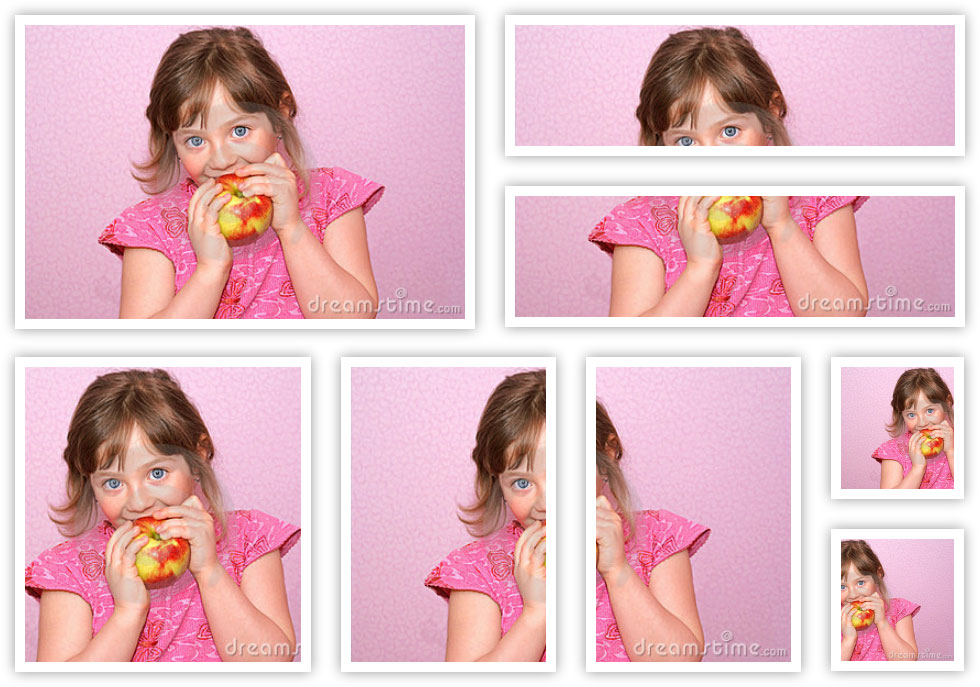
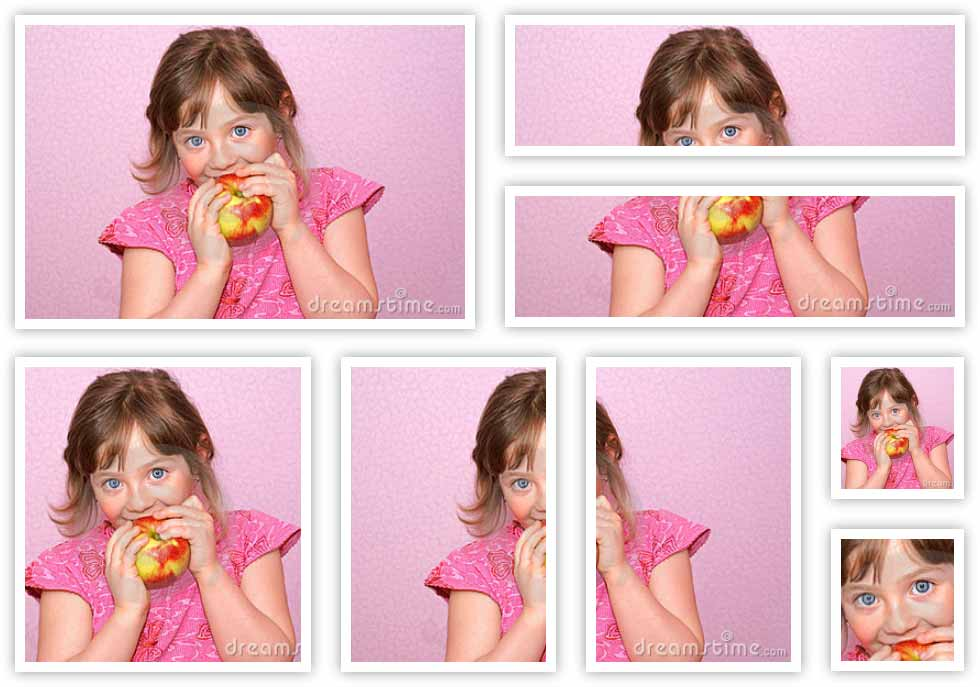
Update version to 2.1.0

diff --git a/demo/jqthumb.min.js b/demo/jqthumb.min.js
@@ -1,13 +1,13 @@
 /*!
-    jQThumb V2.0.1
+    jQThumb V2.1.0
     Copyright (c) 2013-2014
     Dual licensed under the MIT and GPL licenses.
 
     Author       : Pak Cheong
-    Version      : 2.0.1
+    Version      : 2.1.0
     Repo         : https://github.com/pakcheong/jqthumb
     Demo         : http://pakcheong.github.io/jqthumb/
-    Last Updated : Friday, September 19th, 2014, 4:07:25 PM
+    Last Updated : Sunday, September 21st, 2014, 3:19:41 PM
     Requirements : jQuery >=v1.3.0 or Zepto (with zepto-data plugin) >=v1.0.0
 */
-!function(a,b,c){function d(a){b.console||(b.console=function(){var a=function(){};return a.prototype.error=function(){},a.prototype.log=function(){},a.prototype.warn=function(){},new a}),"undefined"!=typeof a&&"object"==typeof a&&"undefined"!=typeof a.type&&a.type&&"undefined"!=typeof a.msg&&a.msg&&(a.type=a.type.toLowerCase(),"error"==a.type?console.error(a.msg):"log"==a.type?console.log(a.msg):"warn"==a.type?console.warn(a.msg):console.error('"'+a.type+'" is not supported as console type.'))}function e(b,c){this.element=b,this.settings=a.extend({},h,c),this.settings.width=this.settings.width.toString().replace(/px/g,""),this.settings.height=this.settings.height.toString().replace(/px/g,""),this.settings.position.top=this.settings.position.top.toString().replace(/px/g,""),this.settings.position.left=this.settings.position.left.toString().replace(/px/g,""),this._defaults=h,this._name=f,"string"==typeof c?"kill"==c.toLowerCase()&&this.kill(this.element):this.init()}var f="jqthumb",g={outputElems:[],inputElems:[]},h={classname:"jqthumb",width:100,height:100,position:{top:"50%",left:"50%"},source:"src",responsive:20,showoncomplete:!0,before:function(){},after:function(){},done:function(){}};e.prototype={init:function(){this.support_css3_attr("backgroundSize")===!1?this.nonCss3Supported_method(this.element,this.settings):this.css3Supported_method(this.element,this.settings)},kill:function(c){if(a(c).data(f)){if(a(c).prev().data(f)!==f)return d({type:"error",msg:"We could not find the element created by jqthumb. It is probably due to one or more element has been added right before the image element after the plugin initialization, or it was removed."}),!1;var e=[];a.each(g.outputElems,function(b,d){a(d)[0]==a(c).prev()[0]||e.push(g.outputElems[b])}),g.outputElems=e,e=[],a.each(g.inputElems,function(b,d){a(d)[0]==a(c)[0]||e.push(g.inputElems[b])}),g.inputElems=e,a(c).prev().data(f+"resize")&&a(b).unbind("resize",a(c).prev().data(f+"resize")),a(c).prev().remove(),a(c).removeAttr("style"),"undefined"!=typeof a(c).data(f+"-original-styles")&&a(c).attr("style",a(c).data(f+"-original-styles")),"undefined"!=typeof a(c).data(f+"-original-styles")&&a(c).removeData(f+"-original-styles"),"undefined"!=typeof a(c).data(f)&&a(c).removeData(f)}},nonCss3Supported_method:function(c,d){d.before.call(c,c);var e=this,g=a(c);g.data(f+"-original-styles",g.attr("style")),g.hide();var h=a("<img/>");h.bind("load",function(){var i={obj:h,size:{width:this.width,height:this.height}},j=e.percentOrPixel(d.width),k=e.percentOrPixel(d.height),l=a("<div />"),m=0,n=function(){setTimeout(function(){o()},d.responsive)},o=function(){i.size.width>i.size.height?(a(i.obj).css({width:"auto","max-height":99999999,"min-height":0,"max-width":99999999,"min-width":0,height:a(i.obj).parent().height()+"px"}),m=a(i.obj).height()/a(i.obj).width(),a(i.obj).width()<a(i.obj).parent().width()&&a(i.obj).css({width:a(i.obj).parent().width(),height:parseFloat(a(i.obj).parent().width()*m)})):(a(i.obj).css({width:a(i.obj).parent().width()+"px","max-height":99999999,"min-height":0,"max-width":99999999,"min-width":0,height:"auto"}),m=a(i.obj).width()/a(i.obj).height(),a(i.obj).height()<a(i.obj).parent().height()&&a(i.obj).css({width:parseFloat(a(i.obj).parent().height()*m),height:a(i.obj).parent().height()})),posTop="%"==e.percentOrPixel(d.position.top)?d.position.top:d.position.top+"px",posLeft="%"==e.percentOrPixel(d.position.left)?d.position.left:d.position.left+"px",a(i.obj).css({position:"absolute",top:posTop,"margin-top":function(){return"%"==e.percentOrPixel(d.position.top)?"-"+parseFloat(a(i.obj).height()/100*d.position.top.slice(0,-1))+"px":void 0}(),left:posLeft,"margin-left":function(){return"%"==e.percentOrPixel(d.position.left)?"-"+parseFloat(a(i.obj).width()/100*d.position.left.slice(0,-1))+"px":void 0}()})};a(l).insertBefore(g).append(a(i.obj)).css({position:"relative",overflow:"hidden",width:"%"==j?d.width:d.width+"px",height:"%"==k?d.height:d.height+"px"}).data(f,f),o(),d.responsive>0&&(a(l).data(f+"resize",n),a(b).bind("resize",a(l).data(f+"resize"))),a(l).hide().addClass(d.classname),d.showoncomplete===!0&&a(l).show(),d.after.call(c,a(l)),e.updateGlobal(c,a(l),d)}).attr("src",g.attr(d.source))},css3Supported_method:function(b,c){c.before.call(b,b);var d=this,e=a(b),g=a("<img />").attr("src",e.attr(c.source));e.data(f+"-original-styles",e.attr("style")),e.hide(),a.each(g,function(g,h){var i=a(h);i.one("load",function(){var g=d.percentOrPixel(c.width),h=d.percentOrPixel(c.height),i=null,j=null;i=a("<div/>").css({width:"%"==g?c.width:c.width+"px",height:"%"==h?c.height:c.height+"px",display:"none"}).addClass(c.classname).data(f,f),j=a("<div/>").css({width:"100%",height:"100%","background-image":'url("'+e.attr(c.source)+'")',"background-repeat":"no-repeat","background-position":function(){var a="%"==d.percentOrPixel(c.position.top)?c.position.top:c.position.top+"px",b="%"==d.percentOrPixel(c.position.left)?c.position.left:c.position.left+"px";return b+" "+a}(),"background-size":"cover"}).appendTo(a(i)),a(i).insertBefore(a(b)),c.showoncomplete===!0&&a(i).show(),d.checkSrcAttrName(b,c),c.after.call(b,a(i)),d.updateGlobal(b,a(i),c)})})},updateGlobal:function(b,c,d){b.global.outputElems.push(a(c)[0]),b.global.elemCounter++,g.outputElems.push(a(c)[0]),b.global.elemCounter==b.global.inputElems.length&&d.done.call(b,b.global.outputElems)},checkSrcAttrName:function(b,c){"src"==c.source||"undefined"!=typeof a(b).attr("src")&&""!==a(b).attr("src")||a(b).attr("src",a(b).attr(c.source))},percentOrPixel:function(a){return a=a.toString(),a.match("px$")||a.match("PX$")||a.match("pX$")||a.match("Px$")?"px":a.match("%$")?"%":void 0},support_css3_attr:function(){{var a=c.createElement("div"),b="Khtml Ms O Moz Webkit".split(" ");b.length}return function(c){if(c in a.style)return!0;for(c=c.replace(/^[a-z]/,function(a){return a.toUpperCase()}),i=0;i<b.length;i++)if(b[i]+c in a.style)return!0;return!1}}()},a.fn[f]=function(b){var c={elemCounter:0,outputElems:[],inputElems:function(b){for(var c=a(b),d=c.length,e=[],f=0;d>f;f++)e.push(c.get(f));return e}(a(this))};return obj={},obj[f]=function(b){return"undefined"==typeof b?void d({type:"error",msg:'Please specify an action like $.jqthumb("killall")'}):(b=b.toLowerCase(),void("killall"==b&&a.each(g.inputElems,function(){new e(this,"kill")})))},a.extend(a,obj),this.each(function(){var d=a(this);this.global=c,g.inputElems.push(d),"string"==typeof b?new e(this,b):d.data(f)?(new e(this,"kill"),d.data(f,new e(this,b))):d.data(f,new e(this,b))})}}(window.jQuery||window.Zepto,window,document);
+!function(a,b,c){function d(a){b.console||(b.console=function(){var a=function(){};return a.prototype.error=function(){},a.prototype.log=function(){},a.prototype.warn=function(){},new a}),"undefined"!=typeof a&&"object"==typeof a&&"undefined"!=typeof a.type&&a.type&&"undefined"!=typeof a.msg&&a.msg&&(a.type=a.type.toLowerCase(),"error"==a.type?console.error(a.msg):"log"==a.type?console.log(a.msg):"warn"==a.type?console.warn(a.msg):console.error('"'+a.type+'" is not supported as console type.'))}function e(b,c){this.element=b,this.settings=a.extend({},h,c),this.settings.width=this.settings.width.toString().replace(/px/g,""),this.settings.height=this.settings.height.toString().replace(/px/g,""),this.settings.position.y=this.settings.position.y.toString().replace(/px/g,""),this.settings.position.x=this.settings.position.x.toString().replace(/px/g,""),this._defaults=h,this._name=f,"string"==typeof c?"kill"==c.toLowerCase()&&this.kill(this.element):this.init()}var f="jqthumb",g={outputElems:[],inputElems:[]},h={classname:"jqthumb",width:100,height:100,position:{y:"50%",x:"50%"},source:"src",responsive:20,zoom:1,showoncomplete:!0,method:"auto",before:function(){},after:function(){},done:function(){}};e.prototype={init:function(){"auto"==this.settings.method.toLowerCase()?this.support_css3_attr("backgroundSize")===!1?this.nonCss3Supported_method(this.element,this.settings):this.css3Supported_method(this.element,this.settings):"css3"==this.settings.method.toLowerCase()?this.css3Supported_method(this.element,this.settings):"native"==this.settings.method.toLowerCase()?this.nonCss3Supported_method(this.element,this.settings):d({type:"error",msg:'Wrong method defined. Only "auto", "css3" and "native" are allowed.'})},kill:function(c){if(a(c).data(f)){if(a(c).prev().data(f)!==f)return d({type:"error",msg:"We could not find the element created by jqthumb. It is probably due to one or more element has been added right before the image element after the plugin initialization, or it was removed."}),!1;var e=[];a.each(g.outputElems,function(b,d){a(d)[0]==a(c).prev()[0]||e.push(g.outputElems[b])}),g.outputElems=e,e=[],a.each(g.inputElems,function(b,d){a(d)[0]==a(c)[0]||e.push(g.inputElems[b])}),g.inputElems=e,a(c).prev().data(f+"resize")&&(a(b).unbind("resize",a(c).prev().data(f+"resize")),a(c).prev().removeData(f+"resize")),a(c).prev().remove(),a(c).removeAttr("style"),"undefined"!=typeof a(c).data(f+"-original-styles")&&a(c).attr("style",a(c).data(f+"-original-styles")),"undefined"!=typeof a(c).data(f+"-original-styles")&&a(c).removeData(f+"-original-styles"),"undefined"!=typeof a(c).data(f)&&a(c).removeData(f)}},nonCss3Supported_method:function(c,d){d.before.call(c,c);var e=this,g=a(c);g.data(f+"-original-styles",g.attr("style")),g.hide();var h=a("<img/>");h.bind("load",function(){var i={obj:h,size:{width:this.width,height:this.height}},j=e.percentOrPixel(d.width),k=e.percentOrPixel(d.height),l=a("<div />"),m=0,n=function(){setTimeout(function(){o()},d.responsive)},o=function(){i.size.width>i.size.height?(a(i.obj).css({width:"auto","max-height":99999999,"min-height":0,"max-width":99999999,"min-width":0,height:a(i.obj).parent().height()+"px"}),m=a(i.obj).height()/a(i.obj).width(),a(i.obj).css(a(i.obj).width()<a(i.obj).parent().width()?{width:a(i.obj).parent().width()*d.zoom,height:parseFloat(a(i.obj).parent().width()*m)*d.zoom}:{width:a(i.obj).width()*d.zoom,height:parseFloat(a(i.obj).width()*m)*d.zoom})):(a(i.obj).css({width:a(i.obj).parent().width()+"px","max-height":99999999,"min-height":0,"max-width":99999999,"min-width":0,height:"auto"}),m=a(i.obj).width()/a(i.obj).height(),a(i.obj).height()<a(i.obj).parent().height()&&a(i.obj).css({width:parseFloat(a(i.obj).parent().height()*m)*d.zoom,height:a(i.obj).parent().height()*d.zoom})),posTop="%"==e.percentOrPixel(d.position.y)?d.position.y:d.position.y+"px",posLeft="%"==e.percentOrPixel(d.position.x)?d.position.x:d.position.x+"px",a(i.obj).css({position:"absolute",top:function(){return"%"==e.percentOrPixel(d.position.y)?"-"+parseFloat((a(i.obj).height()-a(l).height())/100*d.position.y.replace("%",""))+"px":"px"==e.percentOrPixel(d.position.y)||isNaN(d.position.y)===!1?d.position.y.replace("px","")+"px":void 0}(),left:function(){return"%"==e.percentOrPixel(d.position.x)?"-"+parseFloat((a(i.obj).width()-a(l).width())/100*d.position.x.replace("%",""))+"px":"px"==e.percentOrPixel(d.position.x)||isNaN(d.position.x)===!1?d.position.x.replace("px","")+"px":void 0}()})};a(l).insertBefore(g).append(a(i.obj)).css({position:"relative",overflow:"hidden",width:"%"==j?d.width:d.width+"px",height:"%"==k?d.height:d.height+"px"}).data(f,f),o(),d.responsive>0&&(a(l).data(f+"resize",n),a(b).bind("resize",a(l).data(f+"resize"))),a(l).hide().addClass(d.classname),d.showoncomplete===!0&&a(l).show(),d.after.call(c,a(l)),e.updateGlobal(c,a(l),d)}).attr("src",g.attr(d.source))},css3Supported_method:function(b,c){c.before.call(b,b);var d=this,e=a(b),g=a("<img />").attr("src",e.attr(c.source));e.data(f+"-original-styles",e.attr("style")),e.hide(),a.each(g,function(g,h){var i=a(h);i.one("load",function(){var g=d.percentOrPixel(c.width),h=d.percentOrPixel(c.height),i=null,j=null;i=a("<div/>").css({width:"%"==g?c.width:c.width+"px",height:"%"==h?c.height:c.height+"px",display:"none",position:"relative",overflow:"hidden"}).addClass(c.classname).data(f,f),j=a("<div/>").css({width:"100%",height:"100%","background-image":'url("'+e.attr(c.source)+'")',"background-repeat":"no-repeat","background-position":function(){var a="%"==d.percentOrPixel(c.position.y)?c.position.y:c.position.y+"px",b="%"==d.percentOrPixel(c.position.x)?c.position.x:c.position.x+"px";return b+" "+a}(),"background-size":"cover"}).appendTo(a(i)),a(i).insertBefore(a(b)),1!=c.zoom&&(a(i).show(),a(j).css({width:parseFloat(100*c.zoom)+"%",height:parseFloat(100*c.zoom)+"%",position:"absolute"}).css({top:function(){var b=a(i).height(),e=a(j).height();return"%"==d.percentOrPixel(c.position.y)?"-"+parseFloat((e-b)/b*100/(100/c.position.y.replace("%","")))+"%":void 0}(),left:function(){var b=a(i).width(),e=a(j).width();return"%"==d.percentOrPixel(c.position.x)?"-"+parseFloat((e-b)/b*100/(100/c.position.x.replace("%","")))+"%":void 0}()}),a(i).hide()),c.showoncomplete===!0&&a(i).show(),d.checkSrcAttrName(b,c),c.after.call(b,a(i)),d.updateGlobal(b,a(i),c)})})},updateGlobal:function(b,c,d){b.global.outputElems.push(a(c)[0]),b.global.elemCounter++,g.outputElems.push(a(c)[0]),b.global.elemCounter==b.global.inputElems.length&&d.done.call(b,b.global.outputElems)},checkSrcAttrName:function(b,c){"src"==c.source||"undefined"!=typeof a(b).attr("src")&&""!==a(b).attr("src")||a(b).attr("src",a(b).attr(c.source))},percentOrPixel:function(a){return a=a.toString(),a.match("px$")||a.match("PX$")||a.match("pX$")||a.match("Px$")?"px":a.match("%$")?"%":void 0},support_css3_attr:function(){{var a=c.createElement("div"),b="Khtml Ms O Moz Webkit".split(" ");b.length}return function(c){if(c in a.style)return!0;for(c=c.replace(/^[a-z]/,function(a){return a.toUpperCase()}),i=0;i<b.length;i++)if(b[i]+c in a.style)return!0;return!1}}()},a.fn[f]=function(b){var c={elemCounter:0,outputElems:[],inputElems:function(b){for(var c=a(b),d=c.length,e=[],f=0;d>f;f++)e.push(c.get(f));return e}(a(this))};return obj={},obj[f]=function(b){return"undefined"==typeof b?void d({type:"error",msg:'Please specify an action like $.jqthumb("killall")'}):(b=b.toLowerCase(),void("killall"==b&&a.each(g.inputElems,function(){new e(this,"kill")})))},a.extend(a,obj),this.each(function(){var d=a(this);this.global=c,g.inputElems.push(d),"string"==typeof b?new e(this,b):d.data(f)?(new e(this,"kill"),d.data(f,new e(this,b))):d.data(f,new e(this,b))})}}(window.jQuery||window.Zepto,window,document);

diff --git a/demo/jqthumb.js b/demo/jqthumb.js
@@ -1,13 +1,13 @@
 /*!
-    jQThumb V2.0.1
+    jQThumb V2.1.0
     Copyright (c) 2013-2014
     Dual licensed under the MIT and GPL licenses.
 
     Author       : Pak Cheong
-    Version      : 2.0.1
+    Version      : 2.1.0
     Repo         : https://github.com/pakcheong/jqthumb
     Demo         : http://pakcheong.github.io/jqthumb/
-    Last Updated : Friday, September 19th, 2014, 4:07:25 PM
+    Last Updated : Sunday, September 21st, 2014, 3:19:41 PM
     Requirements : jQuery >=v1.3.0 or Zepto (with zepto-data plugin) >=v1.0.0
 */
 ;(function ( $, window, document, undefined ) {
@@ -44,10 +44,12 @@
             classname      : 'jqthumb',
             width          : 100,
             height         : 100,
-            position       : { top: '50%', left: '50%' },
+            position       : { y: '50%', x: '50%' },
             source         : 'src',
             responsive     : 20,
+            zoom           : 1,
             showoncomplete : true,
+            method         : 'auto', // auto, css3, native
             before         : function(){},
             after          : function(){},
             done           : function(){}
@@ -58,8 +60,8 @@
         this.settings               = $.extend( {}, defaults, options );
         this.settings.width         = this.settings.width.toString().replace(/px/g, '');
         this.settings.height        = this.settings.height.toString().replace(/px/g, '');
-        this.settings.position.top  = this.settings.position.top.toString().replace(/px/g, '');
-        this.settings.position.left = this.settings.position.left.toString().replace(/px/g, '');
+        this.settings.position.y    = this.settings.position.y.toString().replace(/px/g, '');
+        this.settings.position.x    = this.settings.position.x.toString().replace(/px/g, '');
         this._defaults              = defaults;
         this._name                  = pluginName;
         if(typeof options == 'string'){
@@ -73,10 +75,18 @@
 
     Plugin.prototype = {
         init: function () {
-            if(this.support_css3_attr('backgroundSize') === false){ // old browsers need to do calculation to perform same output like "background-size: cover"
-                this.nonCss3Supported_method(this.element, this.settings);
-            }else{ // modern browsers that support CSS3 would be easier
+            if(this.settings.method.toLowerCase() == 'auto'){
+                if(this.support_css3_attr('backgroundSize') === false){ // old browsers need to do calculation to perform same output like "background-size: cover"
+                    this.nonCss3Supported_method(this.element, this.settings);
+                }else{ // modern browsers that support CSS3 would be easier
+                    this.css3Supported_method(this.element, this.settings);
+                }
+            }else if(this.settings.method.toLowerCase() == 'css3'){
                 this.css3Supported_method(this.element, this.settings);
+            }else if(this.settings.method.toLowerCase() == 'native'){
+                this.nonCss3Supported_method(this.element, this.settings);
+            }else{
+                log({type: 'error', msg: 'Wrong method defined. Only "auto", "css3" and "native" are allowed.'});
             }
         },
 
@@ -113,6 +123,7 @@
                 /* START: remove attached custom event */
                 if($(_this).prev().data(pluginName + 'resize')){
                     $(window).unbind('resize', $(_this).prev().data(pluginName + 'resize'));
+                    $(_this).prev().removeData(pluginName + 'resize');
                 }
                 /* END: remove attached custom event */
 
@@ -179,8 +190,13 @@
 
                             if( $(newImg.obj).width() < $(newImg.obj).parent().width() ){
                                 $(newImg.obj).css({
-                                    'width': $(newImg.obj).parent().width(),
-                                    'height': parseFloat($(newImg.obj).parent().width() * ratio)
+                                    'width': $(newImg.obj).parent().width() * options.zoom,
+                                    'height': parseFloat($(newImg.obj).parent().width() * ratio) * options.zoom
+                                });
+                            }else{
+                                $(newImg.obj).css({
+                                    'width': $(newImg.obj).width() * options.zoom,
+                                    'height': parseFloat($(newImg.obj).width() * ratio) * options.zoom
                                 });
                             }
 
@@ -199,29 +215,31 @@
 
                             if( $(newImg.obj).height() < $(newImg.obj).parent().height() ){
                                 $(newImg.obj).css({
-                                    'width': parseFloat($(newImg.obj).parent().height() * ratio),
-                                    'height': $(newImg.obj).parent().height()
+                                    'width': parseFloat($(newImg.obj).parent().height() * ratio) * options.zoom,
+                                    'height': $(newImg.obj).parent().height() * options.zoom
                                 });
                             }
                         }
 
-                        posTop = (that.percentOrPixel(options.position.top) == '%') ? options.position.top : options.position.top + 'px';
-                        posLeft = (that.percentOrPixel(options.position.left) == '%') ? options.position.left : options.position.left + 'px';
+                        posTop = (that.percentOrPixel(options.position.y) == '%') ? options.position.y : options.position.y + 'px';
+                        posLeft = (that.percentOrPixel(options.position.x) == '%') ? options.position.x : options.position.x + 'px';
 
                         $(newImg.obj).css({
                             'position'    : 'absolute',
-                            'top'         : posTop,
-                            'margin-top'  : (function(){
-                                                if(that.percentOrPixel(options.position.top) == '%'){
-                                                    return '-' + parseFloat(($(newImg.obj).height() / 100) * options.position.top.slice(0,-1)) + 'px';
-                                                }
-                                            })(),
-                            'left'        : posLeft,
-                            'margin-left' : (function(){
-                                                if(that.percentOrPixel(options.position.left) == '%'){
-                                                    return '-' + parseFloat(($(newImg.obj).width() / 100) * options.position.left.slice(0,-1)) + 'px';
-                                                }
-                                            })()
+                            'top'         : (function(){
+                                if(that.percentOrPixel(options.position.y) == '%'){
+                                    return '-' + parseFloat(($(newImg.obj).height() - $(imgContainer).height()) / 100 * options.position.y.replace('%', '')) + 'px';
+                                }else if(that.percentOrPixel(options.position.y) == 'px' || isNaN(options.position.y) === false){
+                                    return options.position.y.replace('px', '') + 'px';
+                                }
+                            })(),
+                            'left'        : (function(){
+                                if(that.percentOrPixel(options.position.x) == '%'){
+                                    return '-' + parseFloat(($(newImg.obj).width() - $(imgContainer).width()) / 100 * options.position.x.replace('%', '')) + 'px';
+                                }else if(that.percentOrPixel(options.position.x) == 'px' || isNaN(options.position.x) === false){
+                                    return options.position.x.replace('px', '') + 'px';
+                                }
+                            })()
                         });
                     };
 
@@ -279,9 +297,11 @@
 
                     featuredBgImgContainer = $('<div/>')
                                                 .css({
-                                                    'width'   : (pw == '%') ? options.width : options.width + 'px',
-                                                    'height'  : (ph == '%') ? options.height : options.height + 'px',
-                                                    'display' : 'none'
+                                                    'width'    : (pw == '%') ? options.width : options.width + 'px',
+                                                    'height'   : (ph == '%') ? options.height : options.height + 'px',
+                                                    'display'  : 'none',
+                                                    'position' : 'relative',
+                                                    'overflow' : 'hidden'
                                                 })
                                                 .addClass(options.classname)
                                                 .data(pluginName, pluginName); // it would be easy to kill later
@@ -293,8 +313,8 @@
                         // '-ms-filter'         : '"progid:DXImageTransform.Microsoft.AlphaImageLoader(src="' + $oriImage.attr(options.source) + '",sizingMethod="scale")', // this does not work in Zepto
                         'background-repeat'  : 'no-repeat',
                         'background-position': (function(){
-                            var posTop = (that.percentOrPixel(options.position.top) == '%') ? options.position.top : options.position.top + 'px',
-                                posLeft = (that.percentOrPixel(options.position.left) == '%') ? options.position.left : options.position.left + 'px';
+                            var posTop = (that.percentOrPixel(options.position.y) == '%') ? options.position.y : options.position.y + 'px',
+                                posLeft = (that.percentOrPixel(options.position.x) == '%') ? options.position.x : options.position.x + 'px';
                             return posLeft + ' ' + posTop;
                         })(),
                         'background-size'    : 'cover'
@@ -302,6 +322,35 @@
                     .appendTo($(featuredBgImgContainer));
 
                     $(featuredBgImgContainer).insertBefore($(_this));
+
+                    if(options.zoom != 1){
+                        $(featuredBgImgContainer).show(); // must show to get resolution
+                        $(featuredBgImg)
+                            .css({
+                                'width'    : parseFloat(100 * options.zoom) + '%',
+                                'height'   : parseFloat(100 * options.zoom) + '%',
+                                'position' : 'absolute'
+                            })
+                            .css({
+                                'top'      : (function(){
+                                    // (cH - pH) / pH * 100 / percentage
+                                    var cH = $(featuredBgImgContainer).height(),
+                                        pH = $(featuredBgImg).height();
+                                    if(that.percentOrPixel(options.position.y) == '%'){
+                                        return '-' + parseFloat((pH - cH) / cH * 100 / (100 / options.position.y.replace('%', '')) ) + '%';
+                                    }
+                                })(),
+                                'left'     : (function(){
+                                    // (cW - pW) / pH * 100 / percentage
+                                    var cW = $(featuredBgImgContainer).width(),
+                                        pW = $(featuredBgImg).width();
+                                    if(that.percentOrPixel(options.position.x) == '%'){
+                                        return '-' + parseFloat((pW - cW) / cW * 100 / (100 / options.position.x.replace('%', '')) ) + '%';
+                                    }
+                                })()
+                            });
+                        $(featuredBgImgContainer).hide();
+                    }
 
                     if(options.showoncomplete === true){
                         $(featuredBgImgContainer).show();

diff --git a/index.html b/index.html
@@ -59,7 +59,7 @@
 	<body>
 	<div class="wrapper">
 		<header>
-			<h1>jQThumb v2.0.1</h1>
+			<h1>jQThumb v2.1.0</h1>
 			<p>
 				Create thumbnails from images proportionally. It even works on IE6 from jQuery >=v1.3 or Zepto (with zepto-data plugin) >=v1.1.3.
 			</p>
@@ -77,23 +77,28 @@
 			<a name="welcome-to-github-pages" class="anchor" href="#welcome-to-github-pages"><span class="octicon octicon-link"></span></a>Welcome to jQThumb Official Demo Page.</h3>
 			<p>This is a <strong><u>jQuery</u></strong> & <strong><a href="http://zeptojs.com/" target="_display">Zepto</a></strong> plugin that allows developers create thumbnails from images proportionally and also an alternative for background-size in older browsers. It even works on IE6 from jQuery V1.3 and above.</p>
 			<pre><code>$('img').jqthumb({
-    classname      : 'jqthumb',        // class name. DEFUALT IS jqthumb
-    width          : 100,              // new image width after cropping. DEFAULT IS 100px.
-    height         : 100,              // new image height after cropping. DEFAULT IS 100px.
-    position: {
-        top  : '50%',                  // position of the image. DEFAULT is 50%. 50% also means centerize the image.
-        left : '50%'                   // position of the image. DEFAULT is 50%. 50% also means centerize the image.
+    classname      : 'jqthumb',             // class name. DEFUALT IS jqthumb
+    width          : 100,                   // new image width after cropping. DEFAULT IS 100px.
+    height         : 100,                   // new image height after cropping. DEFAULT IS 100px.
+    position       : {
+        x : '50%',                          // x position of the image. DEFAULT is 50%. 50% also means centerize the image.
+        y : '50%'                           // y position of the image. DEFAULT is 50%. 50% also means centerize the image.
     },
-    source         : 'src',            // to specify the image source attribute. DEFAULT IS src.
-    showoncomplete : false,            // TRUE = show immediately after processing. FALSE = do not show it. DEFAULT IS TRUE.
-    before         : function(){       // callback before processing.
+    source         : 'src',                 // to specify the image source attribute. DEFAULT IS src.
+    showoncomplete : false,                 // TRUE = show immediately after processing. FALSE = do not show it. DEFAULT IS TRUE.
+    responsove     : 20,                    // used by older browsers only. 0 to disable. DEFAULT IS 20
+    zoom           : 1,                     // zoom the output, 2 would double of the actual image size. DEFAULT IS 1
+    method         : 'auto',                // 3 methods available: "auto", "css3" and "modern". DEFAULT IS auto
+    before         : function(oriImage){    // callback before each image starts processing.
         alert("I'm about to start processing now...");
     },
-    after          : function(imgObj){ // callback when ONE image is cropped.
-        $(imgObj).fadeIn();
+    after          : function(imgObj){      // callback when each image is cropped.
+        console.log(imgObj);
     },
-    done           : function(){       // callback when ALL images are cropped.
-        alert('Done!');
+    done           : function(imgArray){    // callback when all images are cropped.
+        for(var i=0; i < imgArray.length; i++){
+            $(imgArray[i]).fadeIn();
+        }
     }
 });</code></pre>
 			<h3>
